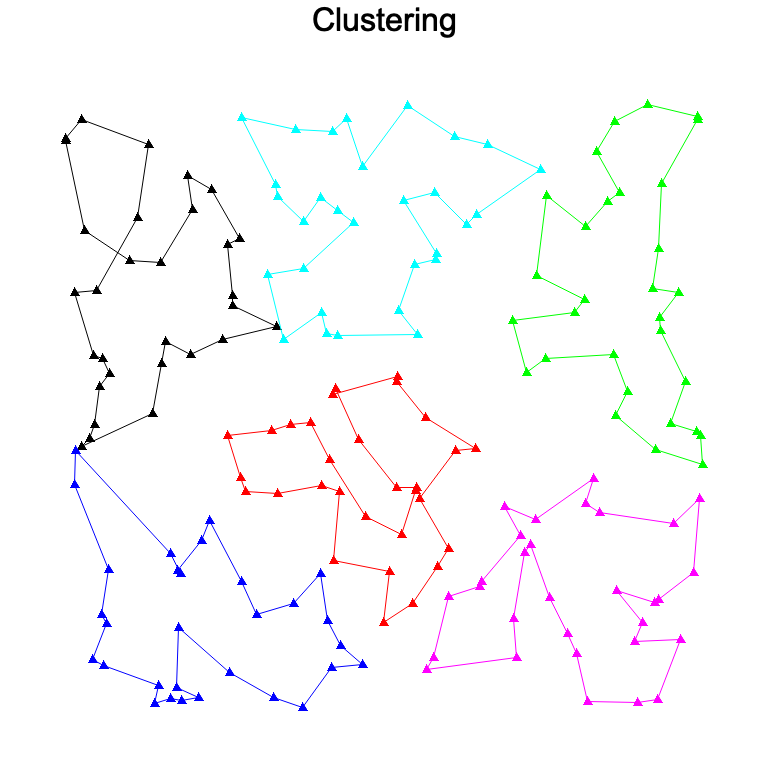
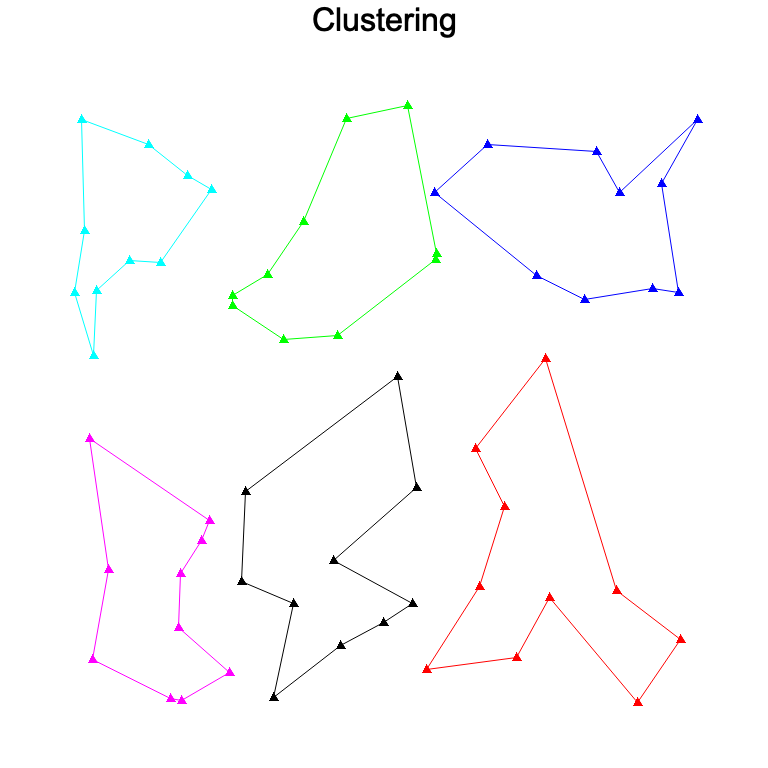
can untangle

diff --git a/src/bin/graph_clusters.rs b/src/bin/graph_clusters.rs
@@ -1,7 +1,55 @@
+use plotters::prelude::*;
+use salesman::*;
+
 fn main() {
-    let num_points = 180;
+    let num_points = 60;
     let rand_points = salesman::example::rand_points_from_chacha(num_points);
     let salesmen_capacities = [num_points / 6; 6];
     let points = salesman::anneal::shortest_path(&rand_points, 1);
-    salesman::plot::plot_clusters(&points, &salesmen_capacities, "clustering");
+    plot_clusters(&points, &salesmen_capacities, "clustering");
+}
+
+fn plot_clusters(_points: &[(f32, f32)], _salesmen_capacities: &[usize], filename: &str) {
+    // generate loop from points.
+    let points = _points.to_vec();
+    let salesmen_capacities = _salesmen_capacities.to_vec();
+    let sorted_points = cluster::best_cluster(&points, &salesmen_capacities);
+
+    // Plot the result and save to folder images/<filename>
+    let my_colors = [&BLACK, &RED, &BLUE, &GREEN, &MAGENTA, &CYAN];
+
+    let pathname = &format!("images/{}.png", filename);
+    let root_drawing_area = BitMapBackend::new(pathname, (768, 768)).into_drawing_area();
+    root_drawing_area.fill(&WHITE).unwrap();
+
+    let mut ctx = ChartBuilder::on(&root_drawing_area)
+        .caption("Clustering", ("sans-serif", 40))
+        .build_cartesian_2d(-1.2_f32..1.2, -1.2_f32..1.2)
+        .unwrap();
+
+    for i in 0..salesmen_capacities.len() {
+        let range_start = salesmen_capacities[0..i].iter().sum::<usize>();
+        let range_end = salesmen_capacities[0..(i + 1)].iter().sum::<usize>();
+        let range = range_start..range_end;
+        let filtered_points = sorted_points[range].to_vec();
+        let my_color = my_colors[i % my_colors.len()];
+
+        // run salesman algorithm on filtered_points.
+        let path_order = anneal::shortest_path_order(&filtered_points, 2);
+        let mut shortest_path = anneal::get_path_from_order(&filtered_points, &path_order);
+        shortest_path.push(shortest_path[0]);
+        ctx.draw_series(
+            filtered_points
+                .iter()
+                .map(|point| TriangleMarker::new(*point, 5, my_color)),
+        )
+        .unwrap();
+
+        ctx.draw_series(
+            vec![1]
+                .iter()
+                .map(|_| PathElement::new(shortest_path.clone(), my_color)),
+        )
+        .unwrap();
+    }
 }

diff --git a/src/plot.rs b/src/plot.rs
@@ -1,5 +1,3 @@
-use crate::anneal;
-use crate::cluster;
 use plotters::prelude::*;
 pub fn plot_hamiltonian_loop(_points: &[(f32, f32)]) {
     // generate loop from points.
@@ -35,48 +33,4 @@ pub fn plot_hamiltonian_loop(_points: &[(f32, f32)]) {
             .map(|_| PathElement::new(salesman_loop.clone(), &BLUE)),
     )
     .unwrap();
-}
-
-pub fn plot_clusters(_points: &[(f32, f32)], _salesmen_capacities: &[usize], filename: &str) {
-    // generate loop from points.
-    let points = _points.to_vec();
-    let salesmen_capacities = _salesmen_capacities.to_vec();
-    let sorted_points = cluster::best_cluster(&points, &salesmen_capacities);
-
-    // Plot the result and save to folder images/<filename>
-    let my_colors = [&BLACK, &RED, &BLUE, &GREEN, &MAGENTA, &CYAN];
-
-    let pathname = &format!("images/{}.png", filename);
-    let root_drawing_area = BitMapBackend::new(pathname, (768, 768)).into_drawing_area();
-    root_drawing_area.fill(&WHITE).unwrap();
-
-    let mut ctx = ChartBuilder::on(&root_drawing_area)
-        .caption("Clustering", ("sans-serif", 40))
-        .build_cartesian_2d(-1.2_f32..1.2, -1.2_f32..1.2)
-        .unwrap();
-
-    for i in 0..salesmen_capacities.len() {
-        let range_start = salesmen_capacities[0..i].iter().sum::<usize>();
-        let range_end = salesmen_capacities[0..(i + 1)].iter().sum::<usize>();
-        let range = range_start..range_end;
-        let filtered_points = sorted_points[range].to_vec();
-        let my_color = my_colors[i % my_colors.len()];
-
-        // run salesman algorithm on filtered_points.
-        let mut shortest_path = anneal::shortest_path(&filtered_points, 1);
-        shortest_path.push(shortest_path[0]);
-        ctx.draw_series(
-            filtered_points
-                .iter()
-                .map(|point| TriangleMarker::new(*point, 5, my_color)),
-        )
-        .unwrap();
-
-        ctx.draw_series(
-            vec![1]
-                .iter()
-                .map(|_| PathElement::new(shortest_path.clone(), my_color)),
-        )
-        .unwrap();
-    }
 }

diff --git a/src/anneal.rs b/src/anneal.rs
@@ -1,3 +1,4 @@
+use crate::untangle;
 use ordered_float::NotNan;
 use rand::Rng;
 
@@ -96,12 +97,12 @@ impl Path {
     }
 }
 
-fn path_order_once(points: &[(f32, f32)]) -> Vec<usize> {
+fn path_order_once(points: &[(f32, f32)], untangle: bool) -> Vec<usize> {
     let mut path = Path::new(points);
     if points.len() < 2 {
         return path.order;
     }
-    let intensity = 12.0_f32; // costs more computational time
+    let intensity = 10.0_f32; // costs more computational time
     let temp_coeff = 1.0 - (-intensity).exp();
 
     let mut temperature = 100.0 * distance(path.access(0), path.access(1));
@@ -109,10 +110,13 @@ fn path_order_once(points: &[(f32, f32)]) -> Vec<usize> {
         path.change(temperature);
         temperature *= temp_coeff;
     }
+    if untangle {
+        return untangle::get_untangled_order(points, &path.order);
+    }
     path.order
 }
 
-fn get_path_from_order(points: &[(f32, f32)], order: &[usize]) -> Vec<(f32, f32)> {
+pub fn get_path_from_order(points: &[(f32, f32)], order: &[usize]) -> Vec<(f32, f32)> {
     let mut result = Vec::new();
     for i in 0..order.len() {
         result.push(points[order[i]]);
@@ -124,7 +128,7 @@ pub fn shortest_path_order(points: &[(f32, f32)], num_times: usize) -> Vec<usize
     let mut loop_distances = Vec::new();
     let mut orders = Vec::new();
     for _ in 0..num_times {
-        let order = path_order_once(points);
+        let order = path_order_once(points, true);
         orders.push(order.clone());
         let path = get_path_from_order(points, &order);
         loop_distances.push(loop_distance(&path));

diff --git a/src/bin/graph_one_salesman.rs b/src/bin/graph_one_salesman.rs
@@ -1,5 +1,42 @@
+use plotters::prelude::*;
 fn main() {
-    let rand_points = salesman::example::rand_points_from_chacha(40);
-    let points = salesman::anneal::shortest_path(&rand_points, 1);
-    salesman::plot::plot_hamiltonian_loop(&points);
+    let rand_points = salesman::example::rand_points_from_chacha(20);
+    let points = salesman::anneal::shortest_path(&rand_points, 2);
+    plot_hamiltonian_loop(&points);
+}
+
+fn plot_hamiltonian_loop(_points: &[(f32, f32)]) {
+    // generate loop from points.
+    let points = _points.to_vec();
+    let salesman_loop;
+    {
+        let mut temp = points.clone();
+        temp.push(temp[0]);
+        salesman_loop = temp;
+    }
+
+    // Plot the result and save to folder images/<filename>
+    let filename = "salesman";
+    let pathname = &format!("images/{}.png", filename);
+    let root_drawing_area = BitMapBackend::new(pathname, (768, 768)).into_drawing_area();
+    root_drawing_area.fill(&WHITE).unwrap();
+
+    let mut ctx = ChartBuilder::on(&root_drawing_area)
+        .caption("Travelling Salesman", ("sans-serif", 40))
+        .build_cartesian_2d(-1.2_f32..1.2, -1.2_f32..1.2)
+        .unwrap();
+
+    ctx.draw_series(
+        points
+            .iter()
+            .map(|point| TriangleMarker::new(*point, 5, &BLACK)),
+    )
+    .unwrap();
+
+    ctx.draw_series(
+        vec![1]
+            .iter()
+            .map(|_| PathElement::new(salesman_loop.clone(), &BLUE)),
+    )
+    .unwrap();
 }

diff --git a/src/untangle.rs b/src/untangle.rs
@@ -1,0 +1,32 @@
+use crate::intersection;
+
+pub fn get_untangled_order(points: &[(f32, f32)], order: &[usize]) -> Vec<usize> {
+    let mut new_order = order.to_vec();
+    let n = points.len();
+    let num_segments = points.len();
+    loop {
+        let mut i = 0;
+        let mut j = 0;
+        'loop_i: while i < num_segments {
+            j = (i + 2) % n;
+            while j < num_segments {
+                let a = points[new_order[i]];
+                let b = points[new_order[(i + 1) % n]];
+                let c = points[new_order[j]];
+                let d = points[new_order[(j + 1) % n]];
+                if intersection::intersects(a, b, c, d) {
+                    new_order.swap((i + 1) % n, j);
+                    break 'loop_i;
+                }
+                j += 1;
+            }
+            i += 1;
+        }
+        if i == num_segments && j == num_segments {
+            return new_order;
+        }
+    }
+}
+
+#[cfg(test)]
+mod test_untangle;

diff --git a/src/cluster/test_cluster.rs b/src/cluster/test_cluster.rs
@@ -52,12 +52,4 @@ fn test_get_salesman_index() {
     assert_eq!(get_salesman_index(15, &salesmen_capacities), 2);
     assert_eq!(get_salesman_index(16, &salesmen_capacities), 2);
     assert_eq!(get_salesman_index(19, &salesmen_capacities), 2);
-    assert_eq!(get_salesman_index(20, &salesmen_capacities), 3);
-    assert_eq!(get_salesman_index(24, &salesmen_capacities), 3);
-}
-#[test]
-#[should_panic]
-fn panic_get_salesman_index() {
-    let salesmen_capacities = vec![10, 5, 5];
-    get_salesman_index(25, &salesmen_capacities);
 }

diff --git a/src/intersection.rs b/src/intersection.rs
@@ -1,0 +1,13 @@
+pub fn intersects(a: (f32, f32), b: (f32, f32), c: (f32, f32), d: (f32, f32)) -> bool {
+    if a == c || a == d || b == c || b == d {
+        return false;
+    }
+    ccw(a, c, d) != ccw(b, c, d) && ccw(a, b, c) != ccw(a, b, d)
+}
+
+fn ccw(a: (f32, f32), b: (f32, f32), c: (f32, f32)) -> bool {
+    (c.1 - a.1) * (b.0 - a.0) > (b.1 - a.1) * (c.0 - a.0)
+}
+
+#[cfg(test)]
+mod test_intersection;

diff --git a/src/untangle/test_untangle.rs b/src/untangle/test_untangle.rs
@@ -1,0 +1,9 @@
+use super::*;
+
+#[test]
+fn test_get_untangled_order() {
+    let points = vec![(0., 0.), (1., 0.), (2., 0.1), (2., 1.1), (1., 1.), (0., 1.)];
+    let order = vec![0, 4, 2, 3, 1, 5];
+    let new_order = get_untangled_order(&points, &order);
+    assert_eq!(new_order, vec![0, 1, 2, 3, 4, 5]);
+}

diff --git a/src/intersection/test_intersection.rs b/src/intersection/test_intersection.rs
@@ -1,0 +1,11 @@
+use super::*;
+
+#[test]
+fn test_intersects() {
+    let a = (0.0, 0.0);
+    let b = (1.0, 1.0);
+    let c = (0.0, 1.0);
+    let d = (1.0, 0.0);
+    assert!(intersects(a, b, c, d));
+    assert!(!intersects(a, d, b, c));
+}

diff --git a/src/lib.rs b/src/lib.rs
@@ -2,4 +2,6 @@ pub mod anneal;
 pub mod block;
 pub mod cluster;
 pub mod example;
+pub mod intersection;
 pub mod plot;
+pub mod untangle;
